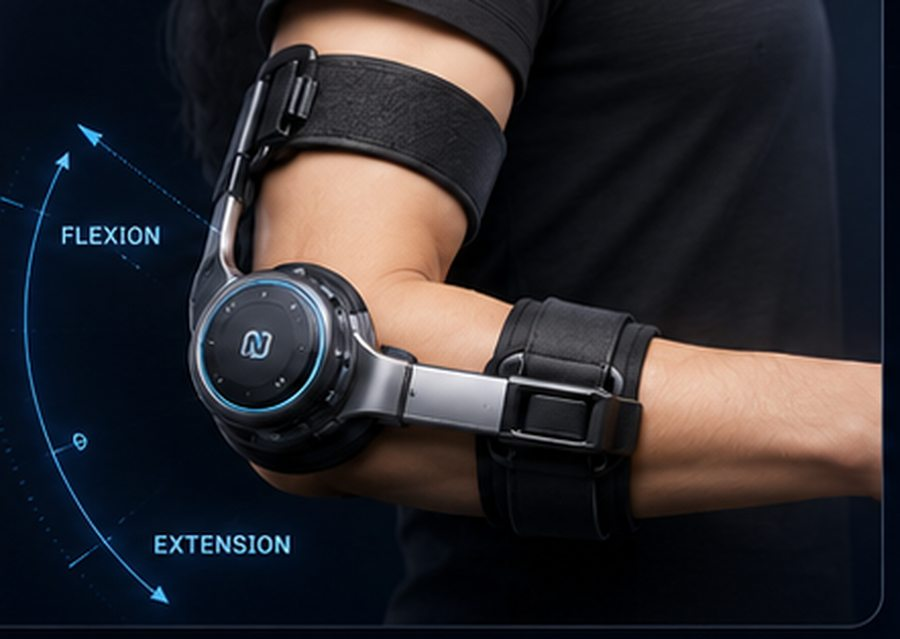
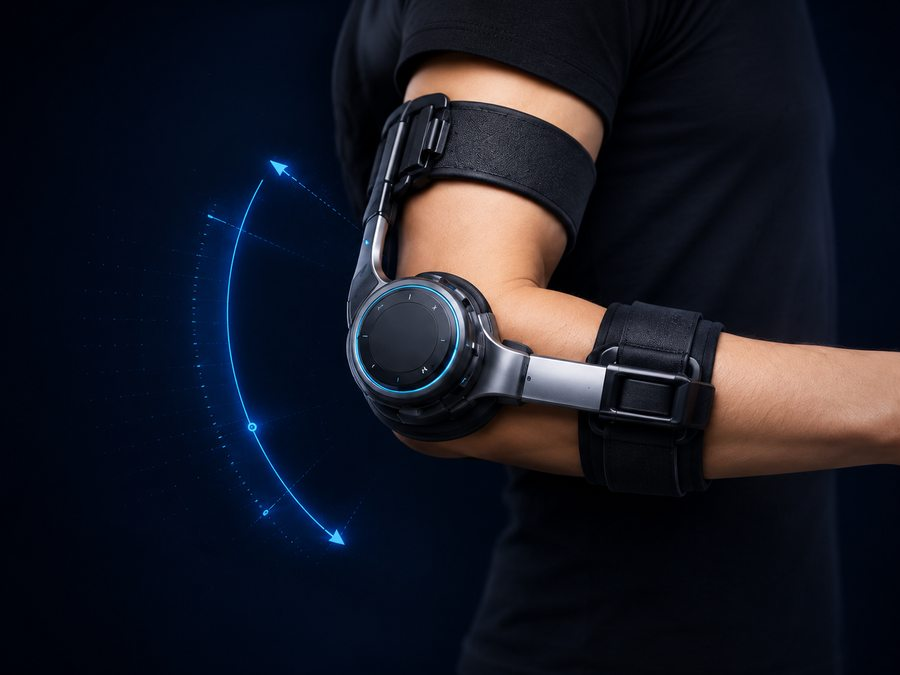
Replace the four brace card photos with the new product renders
All four now share one 4:3 crop, so the 2x2 grid reads as a set instead
of four different shapes. Arm, knee, dial close-up and cuff detail.

222 KB, down from 267 KB.

diff --git a/index.html b/index.html
@@ -363,22 +363,22 @@
         precise arm brace and leg brace. (Machines and higher loads are a separate effort.)</p>
       <div class="bracegrid">
         <div class="bracecard reveal">
-          <img src="img/brace-arm.jpg" width="900" height="639" alt="The Newhab arm brace worn at the elbow, with the resistance dial at the joint and cuffs above and below." loading="lazy" decoding="async">
+          <img src="img/brace-arm.jpg" width="900" height="675" alt="The Newhab arm brace worn at the elbow, with the resistance dial at the joint and cuffs above and below." loading="lazy" decoding="async">
           <div class="body"><h3><span class="n">01</span>Arm brace</h3>
             <p>Worn at the elbow (with wrist and shoulder variants planned) for post-op, stroke, and injury recovery of the upper limb — gentle graded resistance for flexion and extension.</p></div>
         </div>
         <div class="bracecard reveal">
-          <img src="img/brace-leg.jpg" width="900" height="608" alt="The Newhab leg brace worn at the knee, with the resistance dial at the joint and straps above and below." loading="lazy" decoding="async">
+          <img src="img/brace-leg.jpg" width="900" height="675" alt="The Newhab leg brace worn at the knee, with the resistance dial at the joint and straps on the thigh and shin." loading="lazy" decoding="async">
           <div class="body"><h3><span class="n">02</span>Leg brace</h3>
             <p>Worn at the knee (with ankle and hip variants planned) for gait, strength, and range-of-motion recovery in the lower limb — the same dial-set, hold-anywhere control.</p></div>
         </div>
         <div class="bracecard reveal">
-          <img src="img/brace-dial.jpg" width="900" height="868" alt="The Newhab mechanism on a display stand: a graduated dial joining two slotted metal links to padded limb cuffs." loading="lazy" decoding="async">
+          <img src="img/brace-dial.jpg" width="900" height="675" alt="Close view of the graduated dial on the elbow brace alongside a readout display." loading="lazy" decoding="async">
           <div class="body"><h3><span class="n">03</span>Graded dial &amp; readout</h3>
             <p>A clear graduated dial sets the exact sub-pound load; a readout (and, later, a companion app) helps document range, load, and progress over a course of therapy.</p></div>
         </div>
         <div class="bracecard reveal">
-          <img src="img/brace-comfort.jpg" width="900" height="610" alt="Close view of the padded cuff and adjustable strap that hold the Newhab mechanism against the limb." loading="lazy" decoding="async">
+          <img src="img/brace-comfort.jpg" width="900" height="675" alt="Close view of the padded cuffs and adjustable straps holding the brace against the arm." loading="lazy" decoding="async">
           <div class="body"><h3><span class="n">04</span>Comfort &amp; fit</h3>
             <p>A soft sleeve and adjustable straps keep the compact mechanism secure and comfortable for home programs between clinic visits.</p></div>
         </div>
